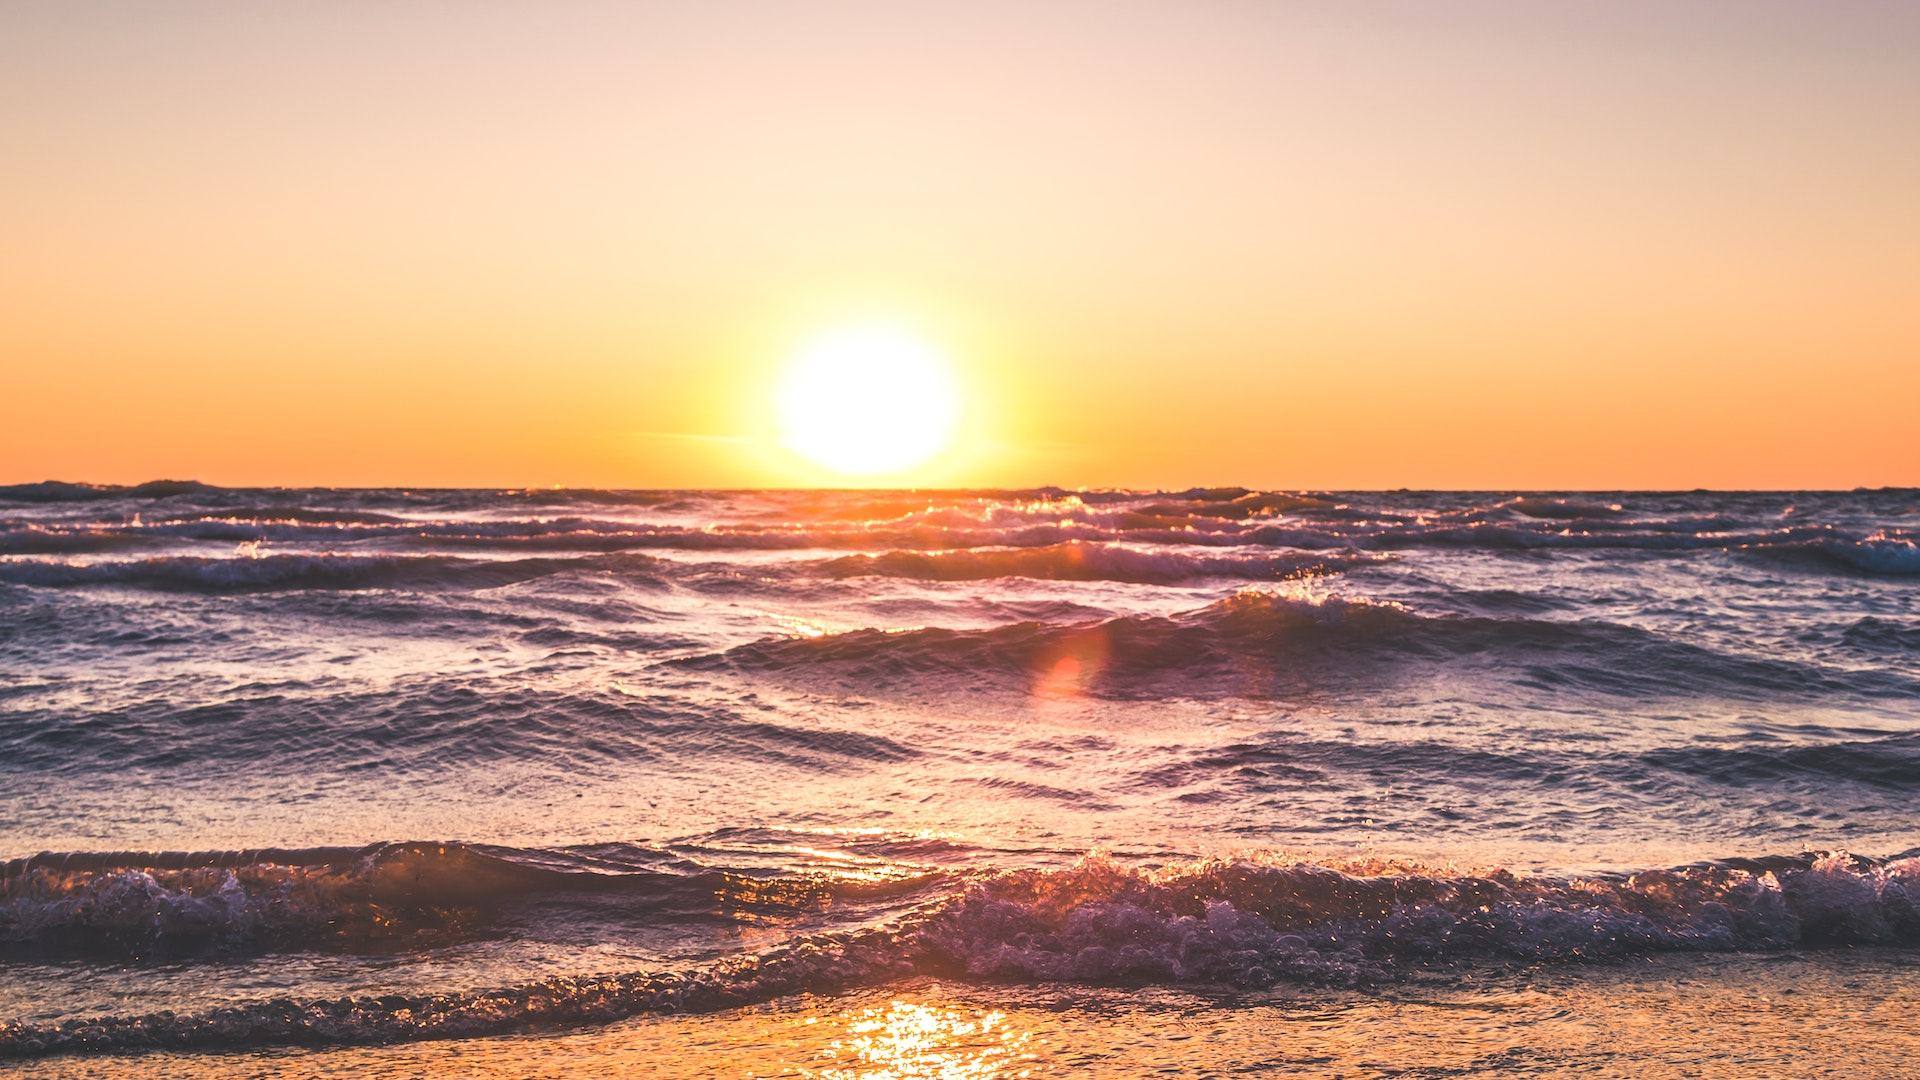
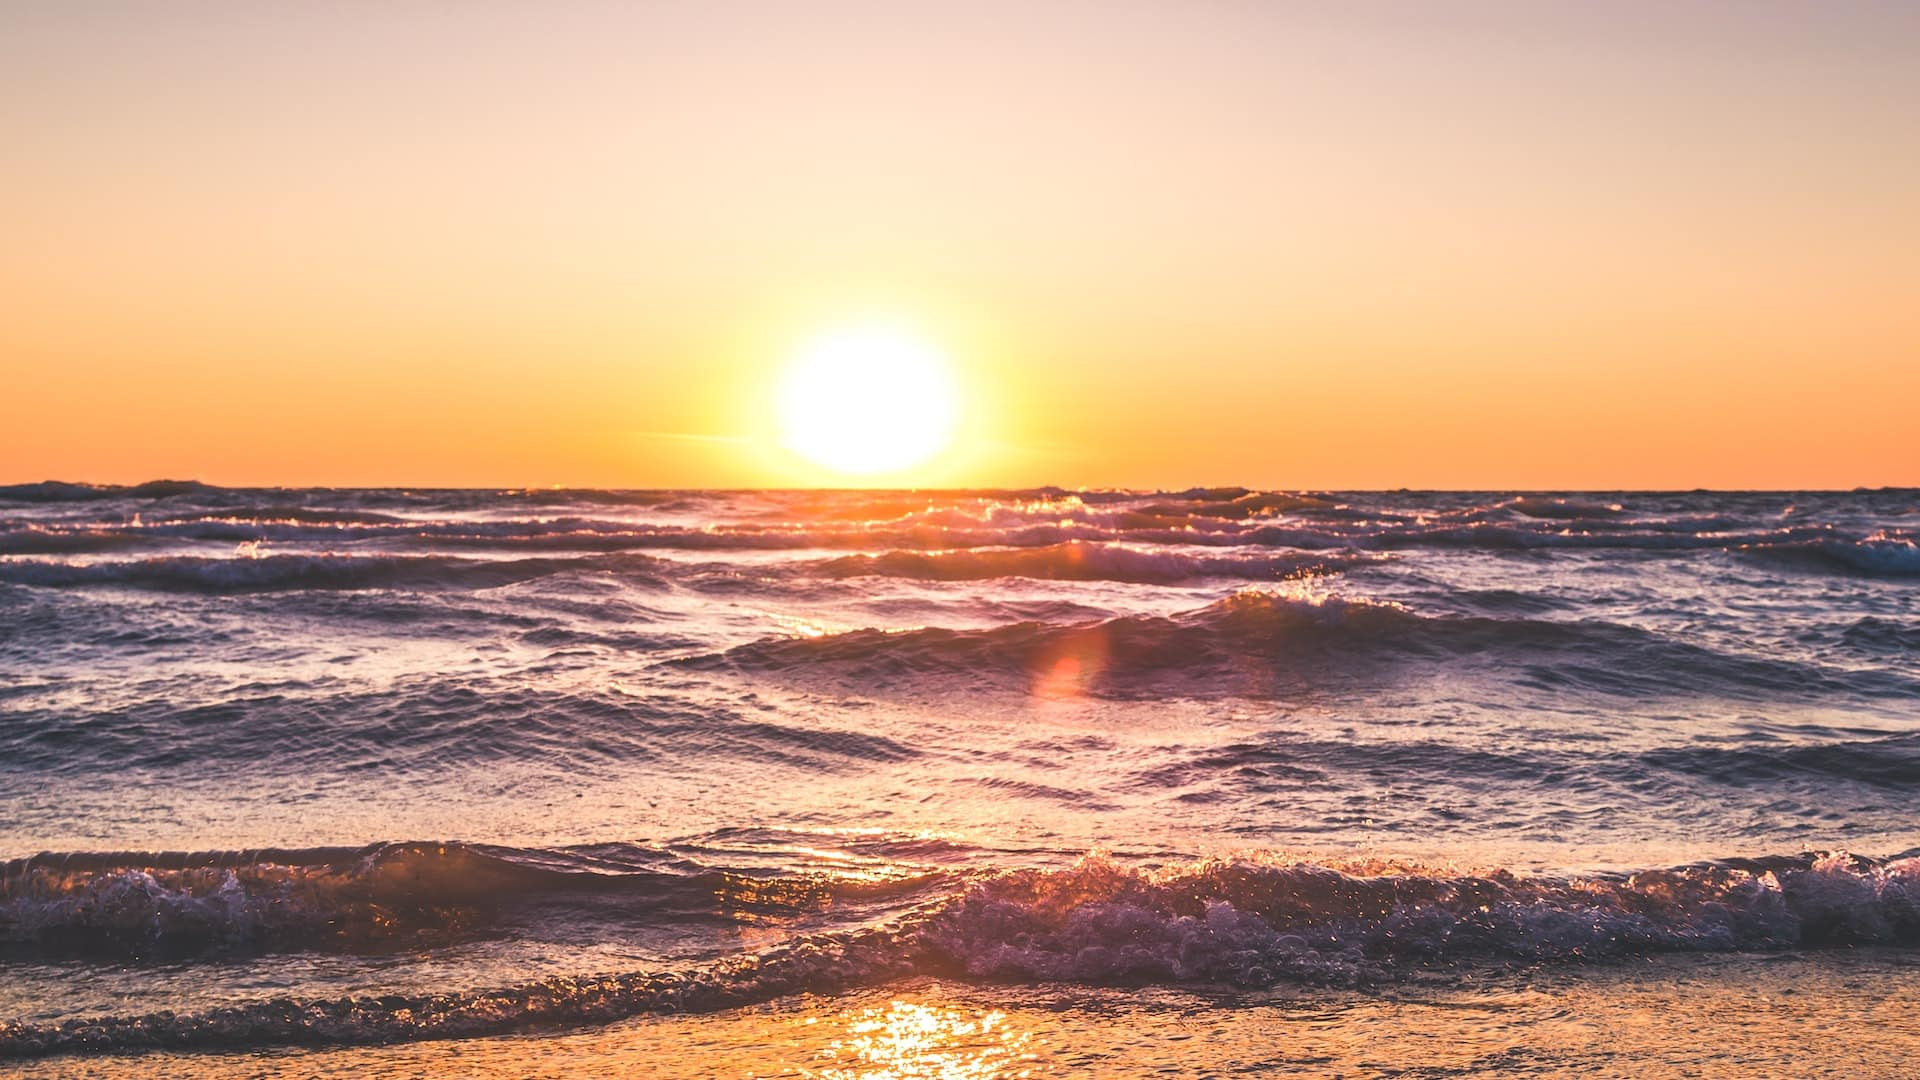
compressed images and replacedd imports from /bootstrap to /bootstrap/component to improve loadtime

Changed region(s): [[0.4062, 0.9167, 0.5312, 1.0], [0.4062, 0.7944, 0.4688, 0.825]]

diff --git a/src/components/auth/Register.jsx b/src/components/auth/Register.jsx
@@ -5,7 +5,12 @@ This file defines the Register component, which is responsible for rendering the
 */
 // External dependencies
 import React, { useState } from "react";
-import { Col, Row, Form, Container, Button, Alert } from "react-bootstrap";
+import Col from "react-bootstrap/Col";
+import Row from "react-bootstrap/Row";
+import Form from "react-bootstrap/Form";
+import Container from "react-bootstrap/Container";
+import Button from "react-bootstrap/Button";
+import Alert from "react-bootstrap/Alert";
 import Modal from "react-bootstrap/Modal";
 
 // Internal dependencies

diff --git a/src/components/auth/Login.jsx b/src/components/auth/Login.jsx
@@ -1,6 +1,11 @@
 // External dependencies
 import React, { useState } from "react";
-import { Col, Row, Form, Container, Button, Alert } from "react-bootstrap";
+import Col from "react-bootstrap/Col";
+import Row from "react-bootstrap/Row";
+import Form from "react-bootstrap/Form";
+import Container from "react-bootstrap/Container";
+import Button from "react-bootstrap/Button";
+import Alert from "react-bootstrap/Alert";
 import Modal from "react-bootstrap/Modal";
 import "react-toastify/dist/ReactToastify.css";
 

diff --git a/src/components/venue/Info.jsx b/src/components/venue/Info.jsx
@@ -1,12 +1,7 @@
 import React, { useState } from "react";
 import Col from "react-bootstrap/Col";
 import { FontAwesomeIcon } from "@fortawesome/react-fontawesome";
-import {
-  faBed,
-  faEdit,
-  faGlobe,
-  faInfo,
-} from "@fortawesome/free-solid-svg-icons";
+import { faBed, faEdit, faGlobe } from "@fortawesome/free-solid-svg-icons";
 import "react-datepicker/dist/react-datepicker.css";
 import { MapContainer, TileLayer, Marker, Popup } from "react-leaflet";
 import "leaflet/dist/leaflet.css";

diff --git a/src/components/home/Hero.jsx b/src/components/home/Hero.jsx
@@ -1,6 +1,7 @@
 import { FontAwesomeIcon } from "@fortawesome/react-fontawesome";
 import { faLocationArrow } from "@fortawesome/free-solid-svg-icons";
-import { Form, InputGroup } from "react-bootstrap";
+import Form from "react-bootstrap/Form";
+import InputGroup from "react-bootstrap/InputGroup";
 import { useEffect, useState } from "react";
 
 import heroImg from "../../assets/media/hero.jpg";

diff --git a/src/components/profile/ModifiedVenueCard.jsx b/src/components/profile/ModifiedVenueCard.jsx
@@ -6,7 +6,7 @@ import Button from "react-bootstrap/Button";
 import Modal from "react-bootstrap/Modal";
 import { Link } from "react-router-dom";
 import ListGroup from "react-bootstrap/ListGroup";
-import { ListGroupItem } from "react-bootstrap";
+import ListGroupItem from "react-bootstrap/ListGroupItem";
 
 export default function VenueCard(props) {
   const [index, setIndex] = useState(0);

diff --git a/src/components/header/LoggedOut.jsx b/src/components/header/LoggedOut.jsx
@@ -1,4 +1,4 @@
-import { Button } from "react-bootstrap";
+import Button from "react-bootstrap/Button";
 import Login from "../auth/Login";
 import Register from "../auth/Register";
 import { useState } from "react";
